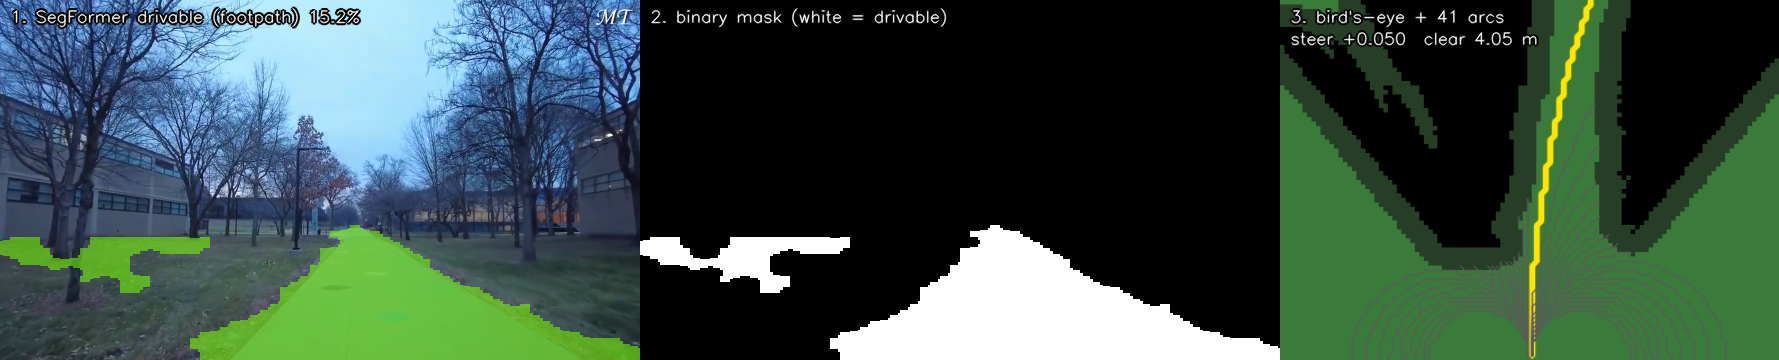
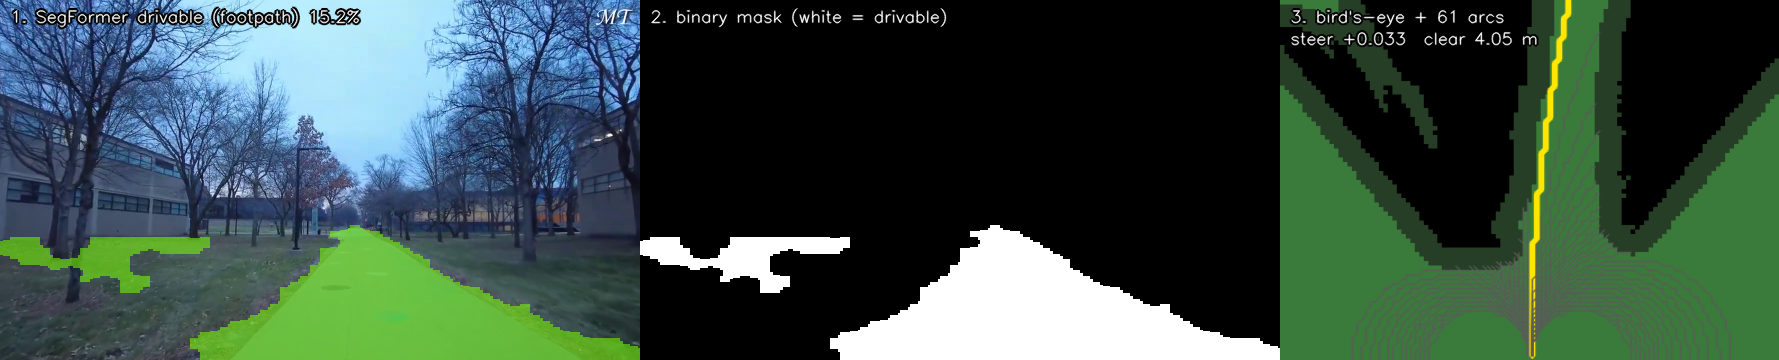
Sample 61 arcs, which is where the smoothing stops paying
Mean frame-to-frame steering change over 60 frames of campus footage:
21 -> 0.0085, 41 -> 0.0025, 61 -> 0.0006, and then flat — 81 gives 0.0004,
121 and 181 both give 0.0006. 61 is the knee.

Past it only the maximum keeps falling, and it falls by definition because the
maximum IS the step size. Chasing that number measures the ruler rather than
the road. Below about 0.01 the sampling is also finer than the servo resolves
through the PCA9685, so it would be arithmetic with no mechanical meaning.

8.5 ms per tick against roughly 660 ms of segmentation inference, so the loop
does not notice. Worth being clear about what it buys: smoother steering, not
better informed steering. Accuracy is bounded by the mask and the homography,
and more arcs move neither.

Results and the contact sheet regenerated at the new value.

diff --git a/mycar/parts/local_planner.py b/mycar/parts/local_planner.py
@@ -55,7 +55,7 @@ class LocalPlanner:
     def __init__(self, homography_path,
                  cart_width_m=0.28, wheelbase_m=0.32, safety_margin_m=0.12,
                  horizon_m=3.0, grid_res_m=0.05, lateral_m=1.6,
-                 n_candidates=41, max_steer_rad=0.52,
+                 n_candidates=61, max_steer_rad=0.52,
                  smoothness_weight=0.35, heading_weight=0.5,
                  throttle_cruise=0.30, throttle_creep=0.16,
                  min_clear_m=0.45,
@@ -79,11 +79,20 @@ class LocalPlanner:
                steering SMOOTHNESS knob, and it works where smoothness_weight
                does not. The winner can only land on one of these values, so
                coarse sampling makes the chosen angle snap between notches as
-               the mask flickers. Measured over 40 frames of campus footage,
-               going from 21 to 41 cut the worst single-frame jump from 0.500
-               to 0.050 — a whole notch of quantisation, not real steering.
-               Costs nothing that matters: the planner runs a few ms against
-               ~660 ms of segmentation inference. 61 buys little more.
+               the mask flickers. Measured over 60 frames of campus footage,
+               mean frame-to-frame change: 21 -> 0.0085, 41 -> 0.0025,
+               61 -> 0.0006, and then FLAT (81 -> 0.0004, 121 and 181 ->
+               0.0006). 61 is the knee; past it only `max` keeps falling, and
+               it falls by definition because max IS the step size. Chasing it
+               is measuring the ruler, not the road.
+
+               Costs 8.5 ms against ~660 ms of segmentation inference, so the
+               tick rate does not notice. Note what this does and does not
+               buy: finer sampling makes the steering SMOOTHER, not better
+               informed. Accuracy is bounded by the mask and the homography.
+               Below about 0.01 the sampling is also finer than the servo can
+               resolve through the PCA9685, so it would be arithmetic with no
+               mechanical meaning.
         :param assumed_speed_ms: how fast we expect to travel while executing
                the plan. Converts distance along an arc into TIME, which is
                what lets a moving obstacle be checked at the moment we would

diff --git a/mycar/myconfig.py b/mycar/myconfig.py
@@ -1028,11 +1028,18 @@ PLANNER_ASSUMED_SPEED_MS = 0.5    # your real cruising speed. Too high and the
 PLANNER_PREDICT_HORIZON_S = 2.5   # stop extrapolating past this. A pedestrian's
                                   # velocity is a fair guess for a couple of
                                   # seconds and fiction after that.
-PLANNER_N_CANDIDATES = 41         # steering arcs rolled out per frame, and the
+PLANNER_N_CANDIDATES = 61         # steering arcs rolled out per frame, and the
                                   # knob that actually smooths steering. The
                                   # chosen angle can only land on one of these,
                                   # so coarse sampling snaps between notches as
-                                  # the mask flickers. Over 40 frames of campus
-                                  # footage, 21 -> 41 cut the worst one-frame
-                                  # jump from 0.500 to 0.050. Free: the planner
-                                  # costs a few ms beside ~660 ms of inference.
+                                  # the mask flickers. Mean frame-to-frame
+                                  # change over 60 frames of campus footage:
+                                  # 21 -> 0.0085, 41 -> 0.0025, 61 -> 0.0006,
+                                  # then flat (81, 121, 181 all ~0.0005).
+                                  # 61 is the knee. Costs 8.5 ms beside ~660 ms
+                                  # of inference, so the loop does not notice.
+                                  # Raising it further only shrinks the max,
+                                  # which IS the step size - that is measuring
+                                  # the ruler. It also buys nothing below about
+                                  # 0.01, which is what the servo can resolve
+                                  # through the PCA9685.

diff --git a/mycar/manage.py b/mycar/manage.py
@@ -1133,7 +1133,7 @@ def add_campus_autonomy(V, cfg):
                 throttle_creep=getattr(cfg, 'SEG_THROTTLE_CREEP', 0.16),
                 assumed_speed_ms=getattr(cfg, 'PLANNER_ASSUMED_SPEED_MS', 0.5),
                 predict_horizon_s=getattr(cfg, 'PLANNER_PREDICT_HORIZON_S', 2.5),
-                n_candidates=getattr(cfg, 'PLANNER_N_CANDIDATES', 41),
+                n_candidates=getattr(cfg, 'PLANNER_N_CANDIDATES', 61),
                 crop_bottom=getattr(cfg, 'SEG_CROP_BOTTOM', 0.0)),
               inputs=['seg/mask', 'seg/angle', 'seg/corridor_clear',
                       'yolo/tracks', 'nav/command', 'sonar/scan'],

diff --git a/tests/test_safety.py b/tests/test_safety.py
@@ -632,7 +632,7 @@ def make_planner(**kw):
     p.safety_margin_m = kw.get("safety_margin_m", 0.12)
     p.horizon_m, p.res, p.lateral_m = 3.0, 0.05, 1.6
     p.rows, p.cols = int(3.0 / 0.05), int(2 * 1.6 / 0.05)
-    p.n_candidates, p.max_steer_rad = 41, 0.52
+    p.n_candidates, p.max_steer_rad = 61, 0.52
     p.smoothness_weight, p.heading_weight = 0.35, 0.5
     p.throttle_cruise, p.throttle_creep = 0.30, 0.16
     p.min_clear_m = 0.45

diff --git a/docs/results/README.md b/docs/results/README.md
@@ -8,14 +8,14 @@
 Generated by `scripts/mask_and_plan_demo.py`, which runs the same `SegEngine`
 and `LocalPlanner` the cart runs. Three panels each: drivable overlay, the
 binary mask the planner consumes, and the bird's-eye occupancy grid with all
-41 candidate arcs and the winner in yellow.
+61 candidate arcs and the winner in yellow.
 
 | Image | Frame | Drivable | Steer | Clear |
 |---|---|---|---|---|
-| `curve_no_crop.png` | dashcam, bonnet in frame | 17.6% | **-0.550** | 3.40 m |
-| `curve_crop_16.png` | same frame, `--crop-bottom 0.16` | **25.8%** | **-0.050** | 4.05 m |
+| `curve_no_crop.png` | dashcam, bonnet in frame | 17.6% | **-0.533** | 3.50 m |
+| `curve_crop_16.png` | same frame, `--crop-bottom 0.16` | **25.8%** | **-0.067** | 4.05 m |
 | `highway.png` | dashcam, no bodywork visible | 26.2% | +0.000 | 4.05 m |
-| `campus_footpath.png` | campus walk, footpath profile | 15.2% | +0.050 | 4.05 m |
+| `campus_footpath.png` | campus walk, footpath profile | 15.2% | +0.033 | 4.05 m |
 
 ## What the curve pair shows
 
@@ -23,13 +23,13 @@ Same weights, same config, nothing fine-tuned. The only difference is that the
 bottom 16% of the frame — the car's own bonnet — is removed before inference.
 
 With the bonnet in shot, the model labels the **tarmac ahead** `vehicle-car` at
-72%, drivable collapses to 8%, and the planner steers -0.55 off the road into
+72%, drivable collapses to 8%, and the planner steers -0.53 off the road into
 the snowbank. The body reads as `vehicle-car` and that label bleeds upward over
 the road beside it, because the logits come out at 1/4 resolution with a wide
 receptive field.
 
 Cropped, the road segments cleanly and the plan runs straight up the
-carriageway. `-0.05` is correct here: the bend is 20-30 m out and the planner's
+carriageway. `-0.07` is correct here: the bend is 20-30 m out and the planner's
 horizon is 4 m, so it has nothing to turn for yet.
 
 Fixing the camera mount beats cropping — a crop also discards the nearest
